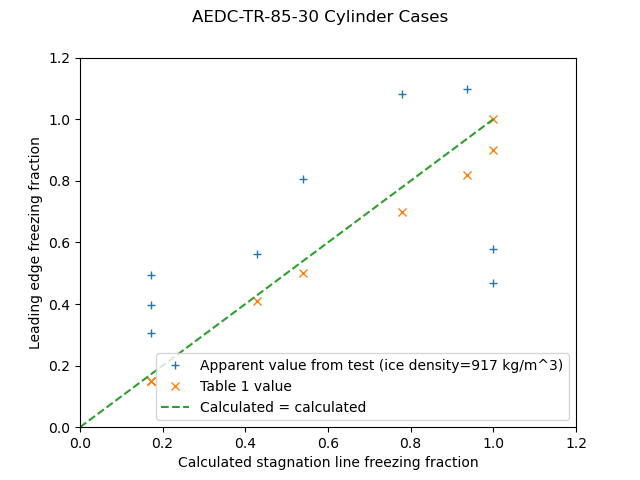
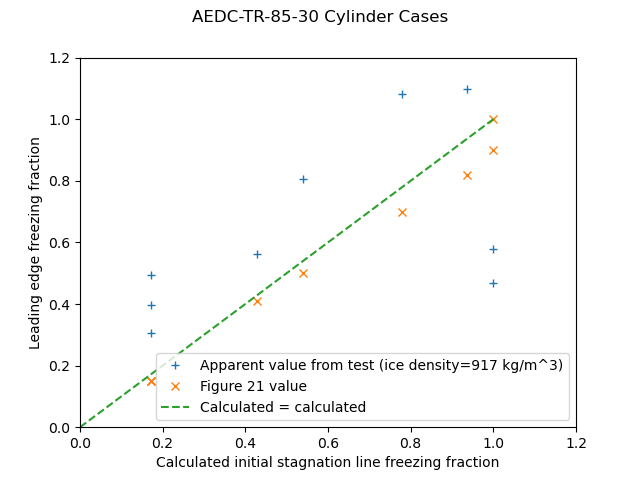
freezing_fraction.md

Changed region(s): [[0.25, 0.9375, 0.7812, 1.0], [0.3125, 0.7812, 0.5, 0.8125]]

diff --git a/content/thermodynamics.md b/content/thermodynamics.md
@@ -2,7 +2,7 @@ Title: Icing Thermodynamics
 Category: NACA  
 tags: thermodynamics  
 
-![NACA 1947 conference Neel Figure 1. C-46 test airplane showing the manner in which the test airfoils were mounted (protruding from the upper fuselage).](images/naca-tn-1472/NACA_1947_conference_Neel_figure1.png)
+![NACA 1947 conference Neel Figure 1. C-46 test airplane showing the manner in which the test airfoils were mounted (protruding from the upper fuselage).](images/naca-tn-1472/NACA_1947_conference_Neel_figure1.png)  
 
 #Icing Thermodynamics Thread 
 
@@ -11,14 +11,14 @@ This thread will focus on the use of thermodynamic heat and mass balance for ici
 There may be some overlap with ice protection systems, 
 but the systems will not be detailed herein.  
 
-###NACA-ARR-5G13, [Kinetic Temperature of Wet Surfaces A Method of Calculating the Amount of Alcohol Required to Prevent Ice, and the Derivation of the Psychrometric Equation."]({filename}NACA-ARR-5G13.md) 
+###NACA-ARR-5G13, [Kinetic Temperature of Wet Surfaces A Method of Calculating the Amount of Alcohol Required to Prevent Ice, and the Derivation of the Psychrometric Equation."]({filename}NACA-ARR-5G13.md)  
 > Psychrometric equations are presented to calculate the thermal effects of 
 evaporation from wet surfaces.  
 
-###NACA-TR-831, [An Analysis of the Dissipation of Heat in Conditions of Icing from a Section of the Wing of the C-46 Airplane]({filename}NACA-TR-831.md) 
+###NACA-TR-831, [An Analysis of the Dissipation of Heat in Conditions of Icing from a Section of the Wing of the C-46 Airplane]({filename}NACA-TR-831.md)  
 > Two dimensional heat balance equations for ice protection are detailed.  
 
-###NACA-TN-1472, [The Calculation of the Heat Required for Wing Thermal Ice Prevention in Specified Icing Conditions]({filename}NACA-TN-1472.md)
+###NACA-TN-1472, [The Calculation of the Heat Required for Wing Thermal Ice Prevention in Specified Icing Conditions]({filename}NACA-TN-1472.md)  
 > Natural icing flight tests with an instrumented test airfoil are compared to 2D thermodynamic calculations.  
 
 ###[Ludlam, F. H.: The Heat Economy of a Rimed Cylinder]({filename}ludlam.md)   

diff --git a/content/freezing fraction.md b/content/freezing fraction.md
@@ -13,11 +13,9 @@ Thus the validation of freezing fraction calculations is subject to that uncerta
 
 Example comparisons are given below. 
 
-
 ##Non-rotating cylinders
 
 There are several sources of ice measurements on non-rotating cylinders. 
-
 
 AEDC-TR-85-30
 
@@ -62,18 +60,24 @@ The heat transfer relationship from NASA-TM-107141 was used:
     nu = 1.244 * re^0.4774
 
 The file "messinger.py" was used to calculate the freezing fraction. 
+The freezing fraction is evaluated at the initial cylinder diameter (only). 
+The is no attempt to calculate changes during the ice growth, 
+when the surface shape becomes non-cylindrical and the heat transfer 
+and water catch rate may change.
 
 For the AEDC Table 1, the reported and calculated freezing fraction values agree well, 
-but the apparent freezing fraction values do not.  
+but the apparent freezing fraction values have scatter compared to the calculated values.  
 
 ![](images/freezing_fractions/cylinder_freezing_fractions_AEDC_TR_85_30_fig21.png)  
 
-For NASA-TM, apparent freezing fraction values agree well with the calculated values, 
-but the reported values do not.
+For NASA-TM-107141, apparent freezing fraction values agree well with the calculated values, 
+but the reported values do not. 
+As the heat transfer relationship used came from NASA-TM-107141, 
+it is not clear what the implementation differences of the calculation would be. 
 
 ![](images/freezing_fractions/cylinder_freezing_fractions_nasa_tm_107141_table1.png)  
 
-For the NASA-CR, the values agree fairly well. 
+For the NASA-CR-2008-215302, the values agree fairly well. 
 
 ![](images/freezing_fractions/cylinder_freezing_fractions_NASA_CR_2008_215302_fig3.png)  
 

diff --git a/content/ice detector.md b/content/ice detector.md
@@ -1,0 +1,3 @@
+title: ice detector
+status: draft 
+
